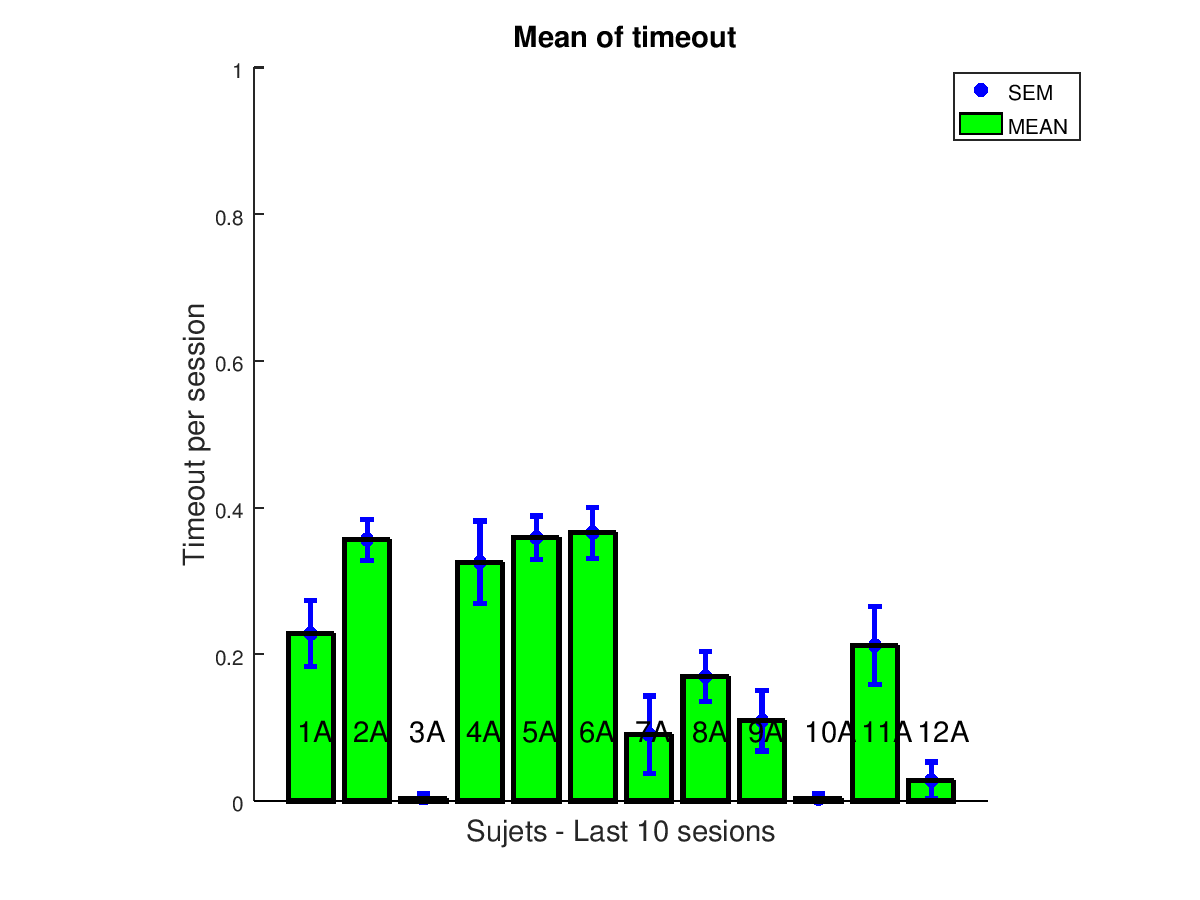
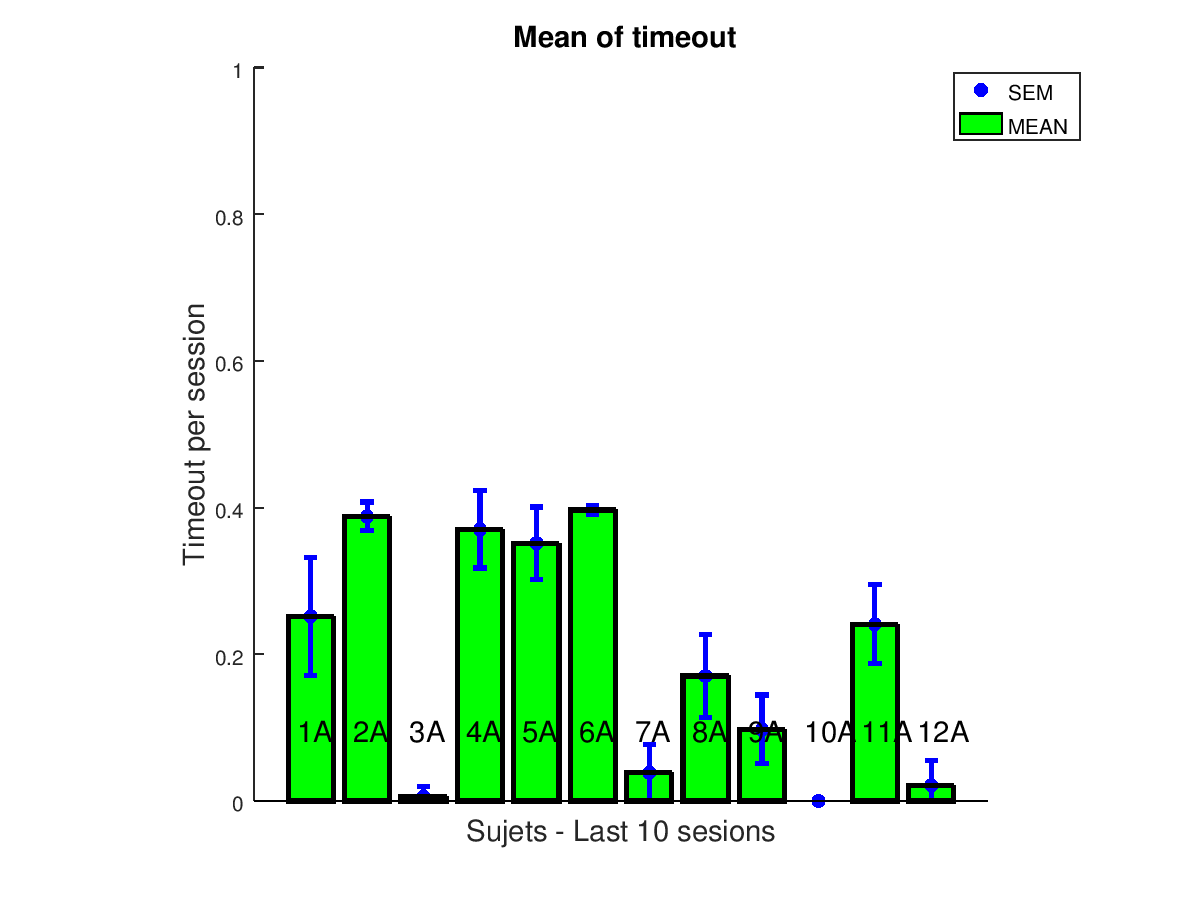
corrigiendo resultados

diff --git a/ExtraerDatos/graficos_iPD_1_2_9s_13s_Promedios_ultimosX.m b/ExtraerDatos/graficos_iPD_1_2_9s_13s_Promedios_ultimosX.m
@@ -217,7 +217,7 @@ figure();hold on;
 for i=_sujetosCooperadores%1:_nSujetos
   inicioAux=expXsuj(i)-_ultimosX+1;
   finAux=expXsuj(i);
-  h=plot([1:10],_promediosC(inicioAux:finAux,i),_colores(i,:));
+  h=plot([1:_ultimosX],_promediosC(inicioAux:finAux,i),_colores(i,:));
   set(h, "linewidth", 2);
   hh=xlabel("sessions(Last ten sessions)");set(hh, "fontsize", 14);
   hh=ylabel("% of cooperacion");set(hh, "fontsize", 14);
@@ -244,7 +244,7 @@ figure();hold on;
 for i=_sujetosNocooperadores%1:_nSujetos
   inicioAux=expXsuj(i)-_ultimosX+1;
   finAux=expXsuj(i);
-  h=plot([1:10],_promediosC(inicioAux:finAux,i),_colores(i,:));
+  h=plot([1:_ultimosX],_promediosC(inicioAux:finAux,i),_colores(i,:));
   set(h, "linewidth", 2);
   hh=xlabel("n de sesiones");set(hh, "fontsize", 14);
   hh=ylabel("% de cooperacion");set(hh, "fontsize", 14);

diff --git a/ExtraerDatos/graficos_iPD_1_2_9s_13s_matrizDeMarkov_CD.m b/ExtraerDatos/graficos_iPD_1_2_9s_13s_matrizDeMarkov_CD.m
@@ -1,8 +1,8 @@
 %-------------------------------------------------------------------
 %------- IPD + TFT
 % Analisis de las ultimas 10 sesiones
-%clear all
-%close all
+clear all
+close all
 
 % load "iPD_1_2_9s_13s/datosCargadoWorkspace20160423";
 
@@ -149,7 +149,7 @@ controlFallas=zeros(1,_nSujetos);
 controlFallasXexp=zeros(_nSujetos,length(inicio:(fin)));
 auxFallas=1;
 
-_ultimosX=10;
+_ultimosX=5;
 for i=1:_nSujetos
   ultimo=expXsuj(i);
   primero=1;
@@ -290,7 +290,7 @@ endfor
 
 QxExp_ante=matricesQxExp;
 % Analizando las ultimas X sesiones
-_ultimosX=10;
+_ultimosX=5;
 %   Normalizacion para todos los sujetos en todos los experimentos
 Q_antes=matricesQ;
 QQ=[];

diff --git a/ExtraerDatos/graficos_iPD_1_2_9s_13s_matrizDeMarkov.m b/ExtraerDatos/graficos_iPD_1_2_9s_13s_matrizDeMarkov.m
@@ -1,7 +1,7 @@
 %-------------------------------------------------------------------
 %------- IPD + TFT
 % Analisis de las ultimas 10 sesiones
-%clear all
+clear all
 close all
 
 
@@ -283,7 +283,7 @@ S=S./(30-controlFallasXexp);
 TT=T;CC=C;
 PP=P;SS=S;
 % Analizando las ultimas X sesiones
-_ultimosX=10;
+_ultimosX=5;
 %   Normalizacion para todos los sujetos en todos los experimentos
 Q_antes=matricesQ;
 for i=1:_nSujetos % Ceros para todos
